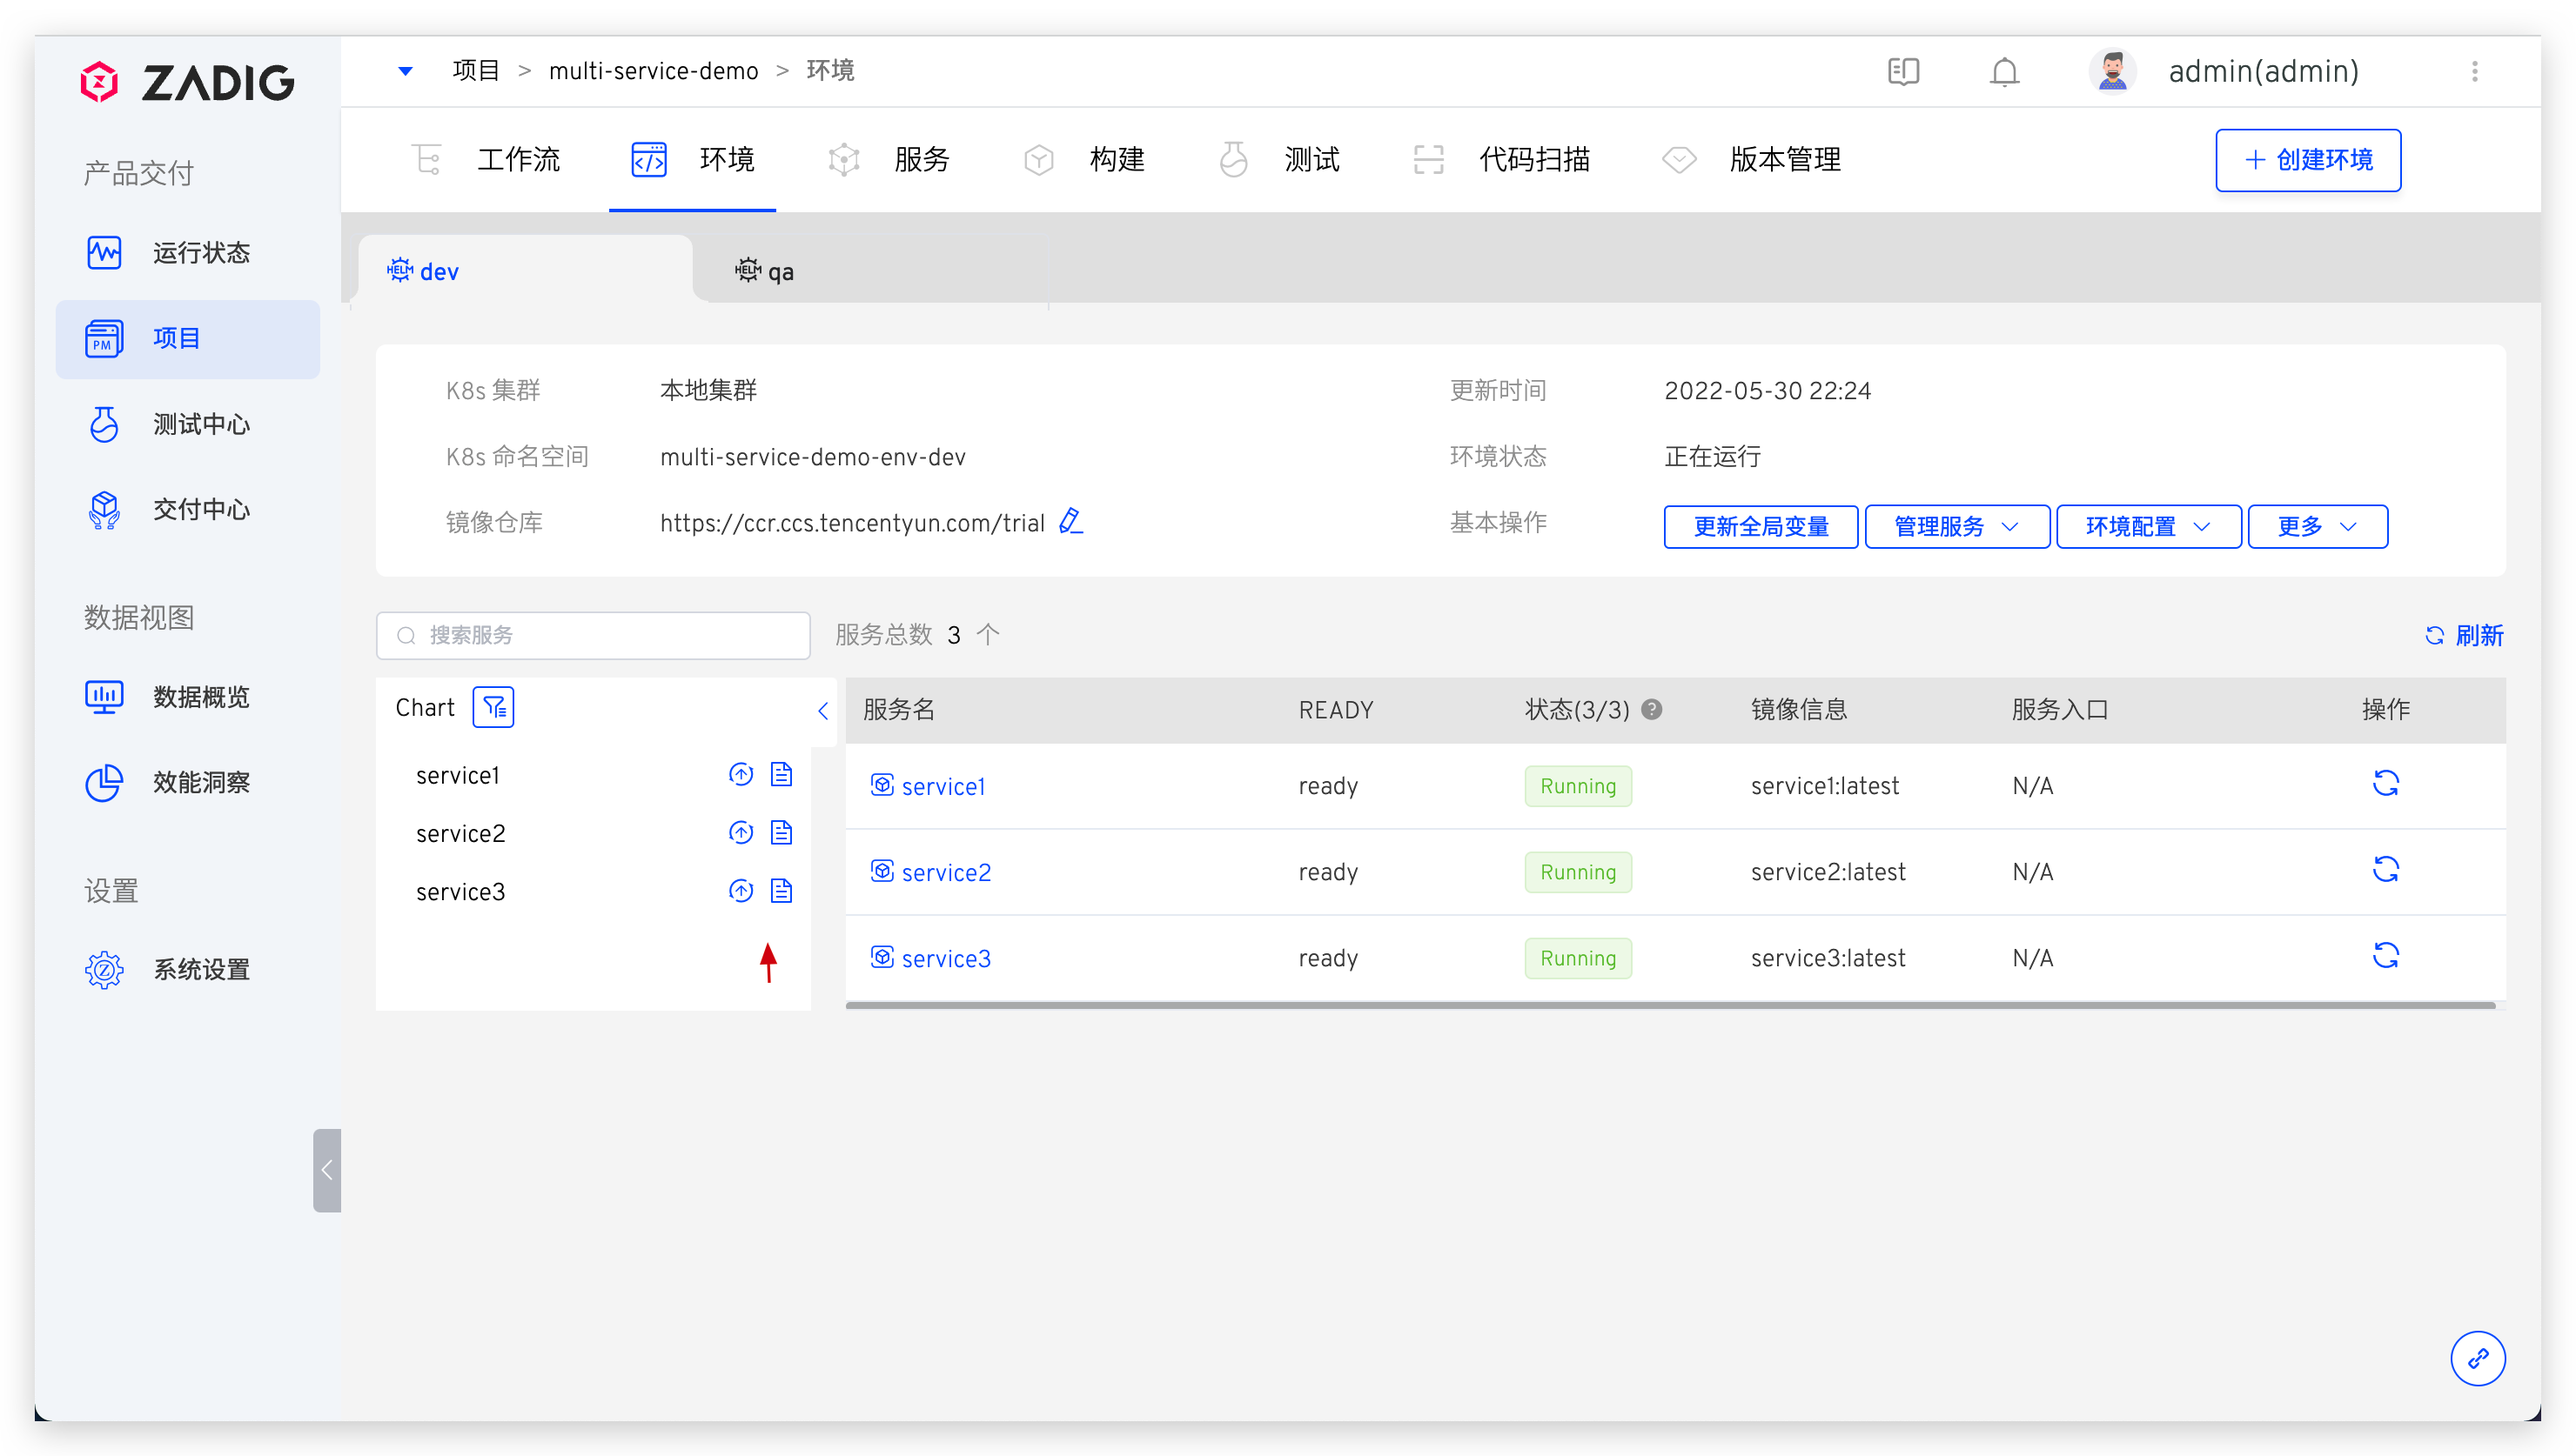
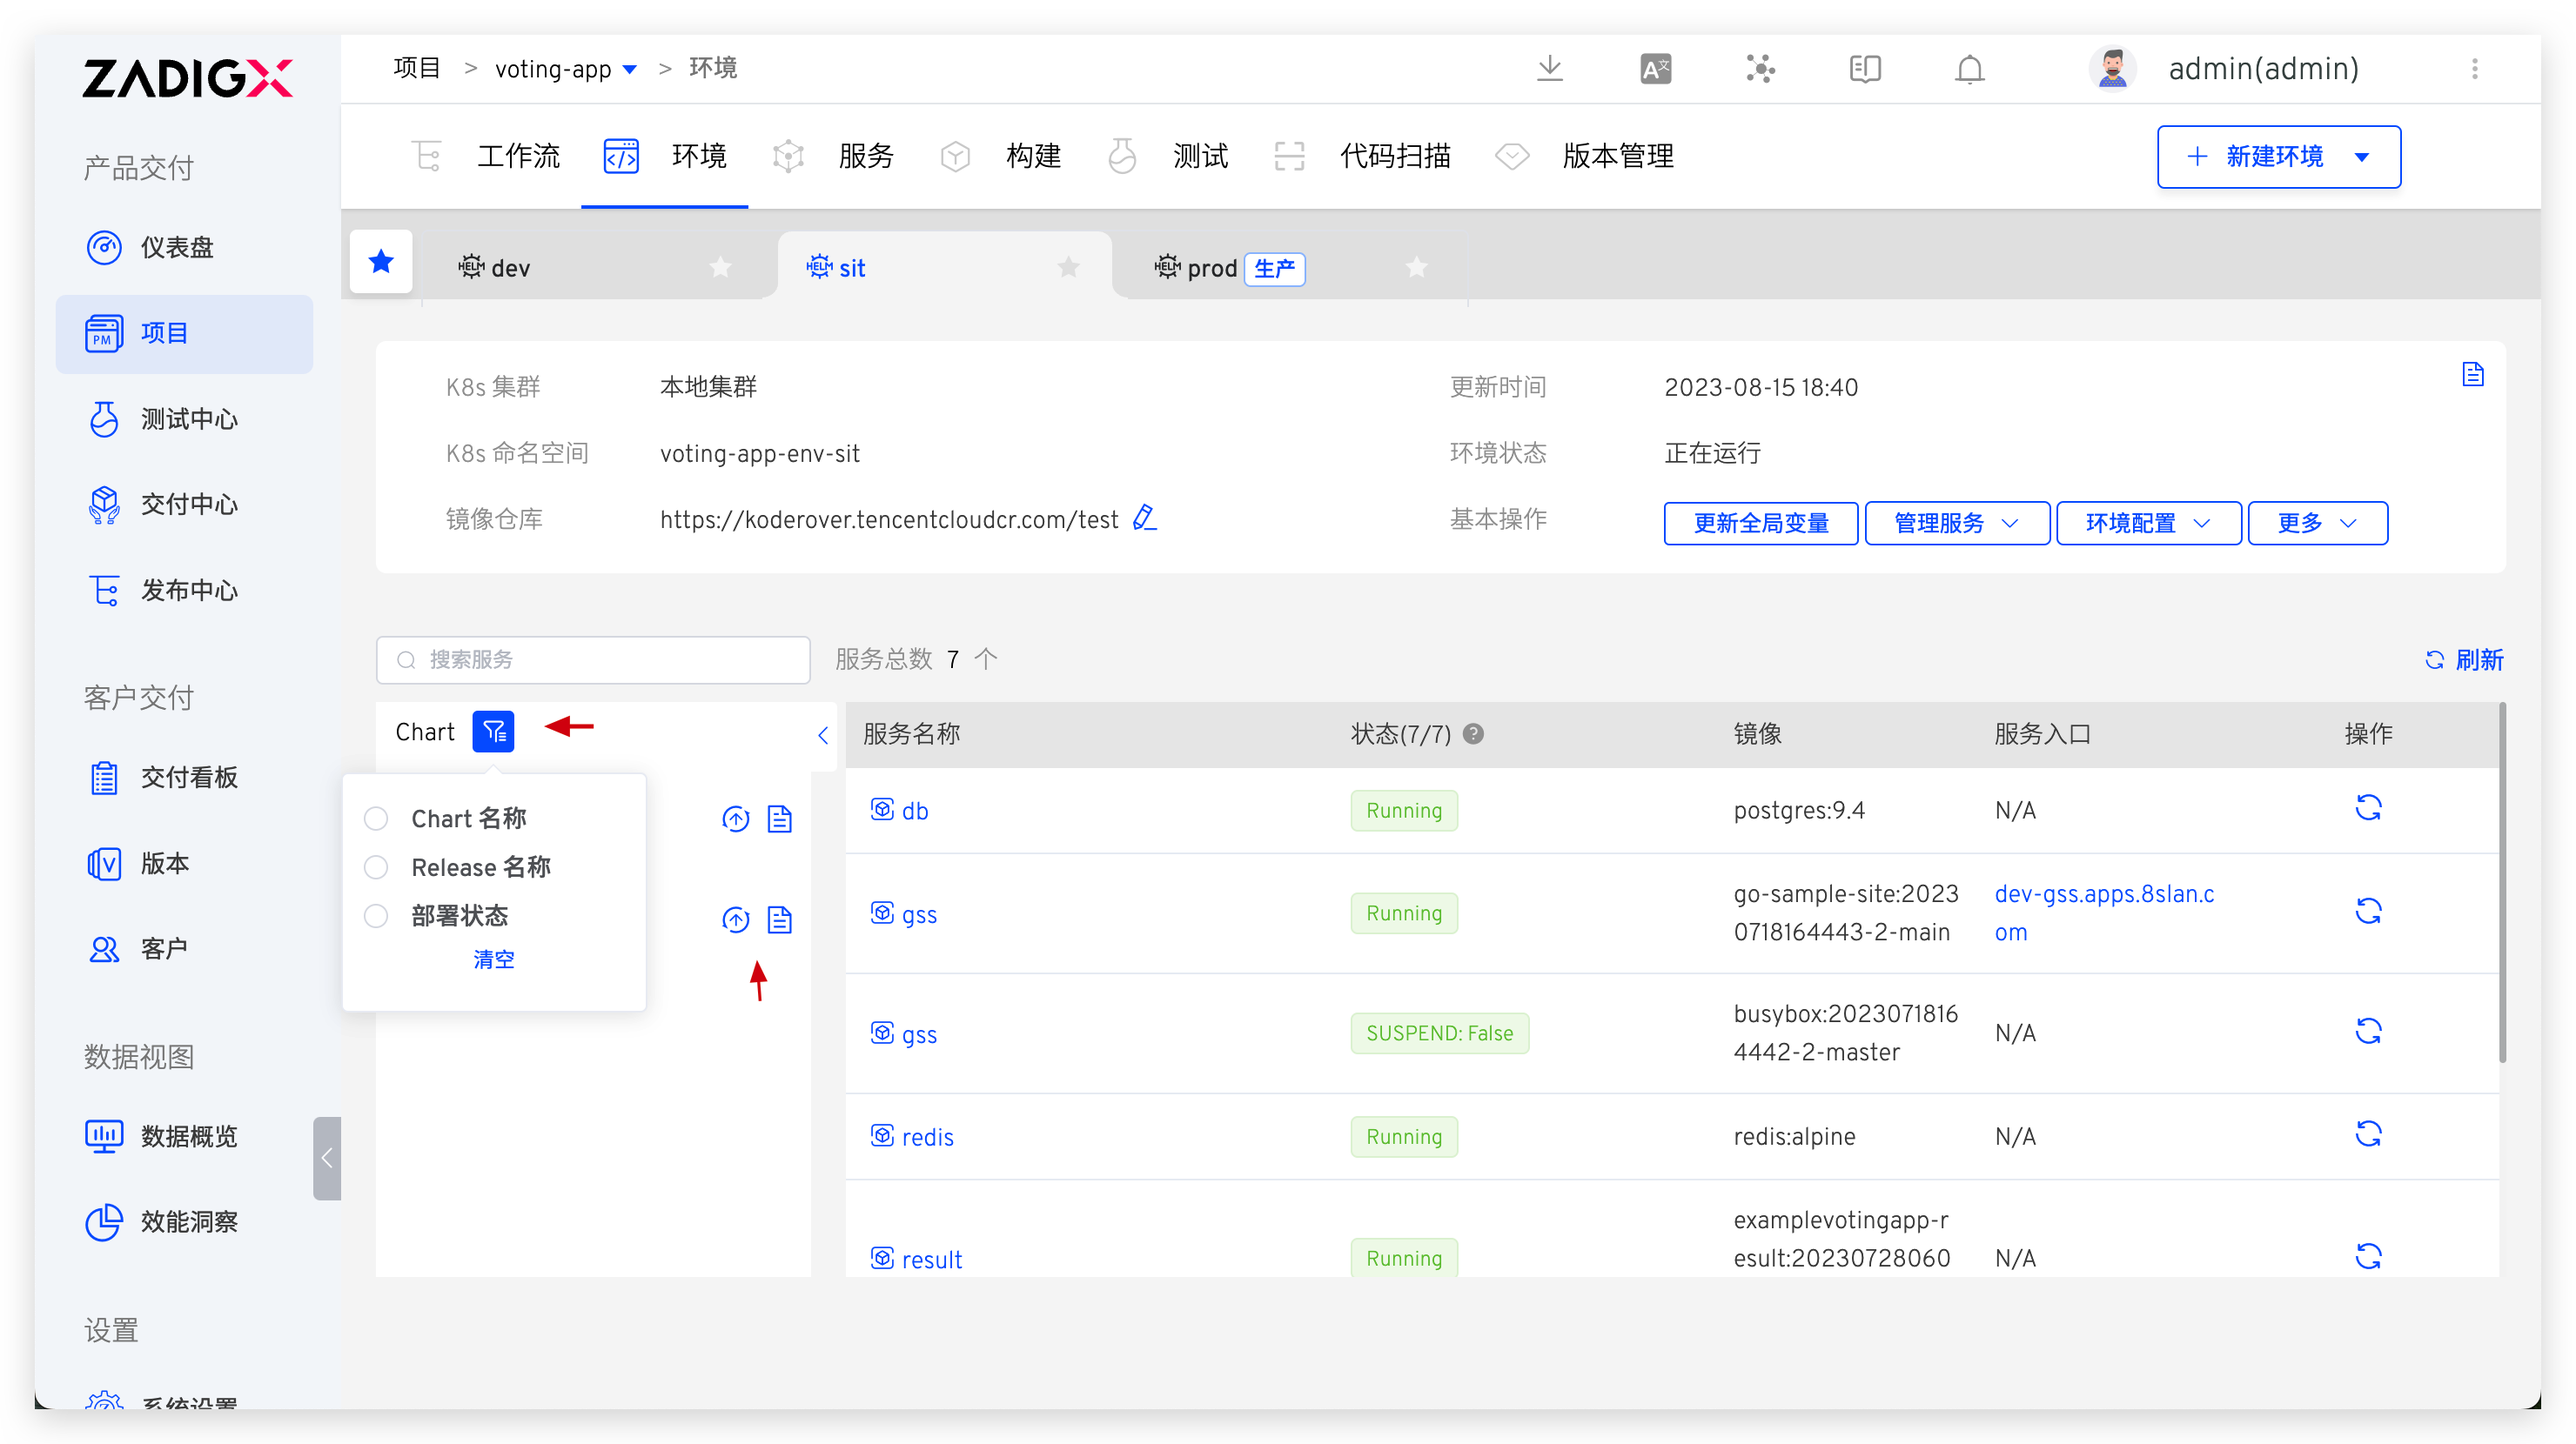
chart deploy for helm

diff --git a/ZadigX v1.6.0/05.功能介绍/03.环境/03.k8s_helm_environment.md b/ZadigX v1.6.0/05.功能介绍/03.环境/03.k8s_helm_environment.md
@@ -125,9 +125,9 @@ permalink: /ZadigX v1.6.0/project/env/helm/chart/
 
 ![变更记录](../_images/env_oplog_helm_chart.png)
 
-### Chart 视图
+## Chart 视图
 
-在服务列表左侧的 Chart 视图中可查看服务实例的 values 文件内容，点击左侧的更新按钮可对环境中的服务进行更新。
+在服务列表左侧的 Chart 视图中可对服务快速过滤，查看服务实例的 values 文件内容，点击左侧的更新按钮可对环境中的服务进行更新。
 
 ![chart release 视图](../_images/chart_release_view.png)
 
